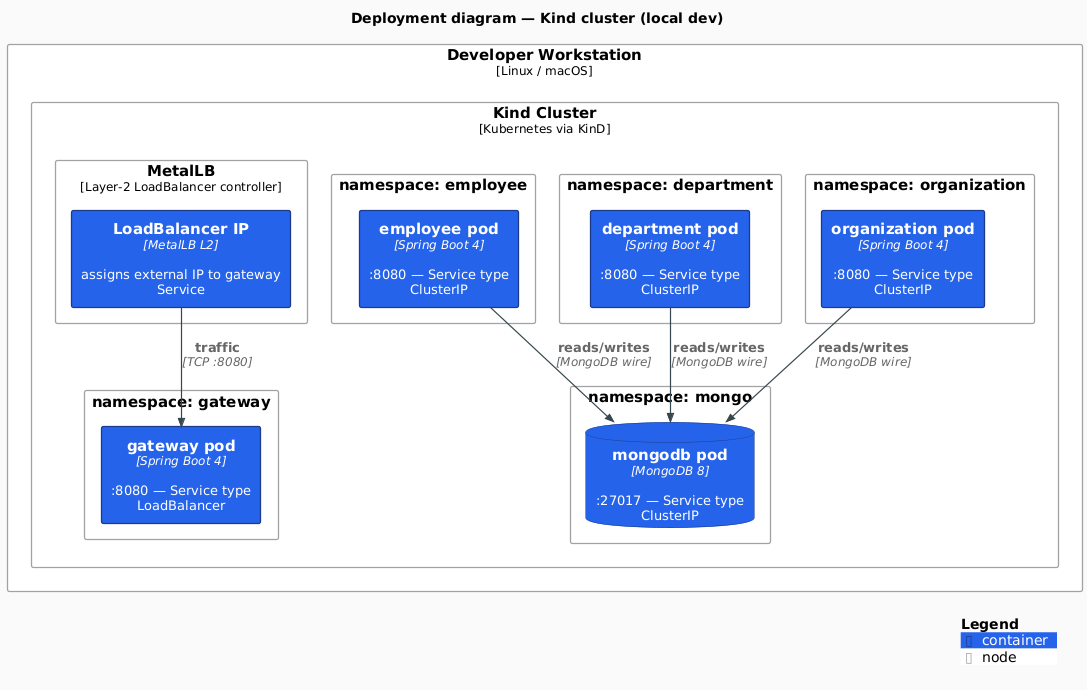
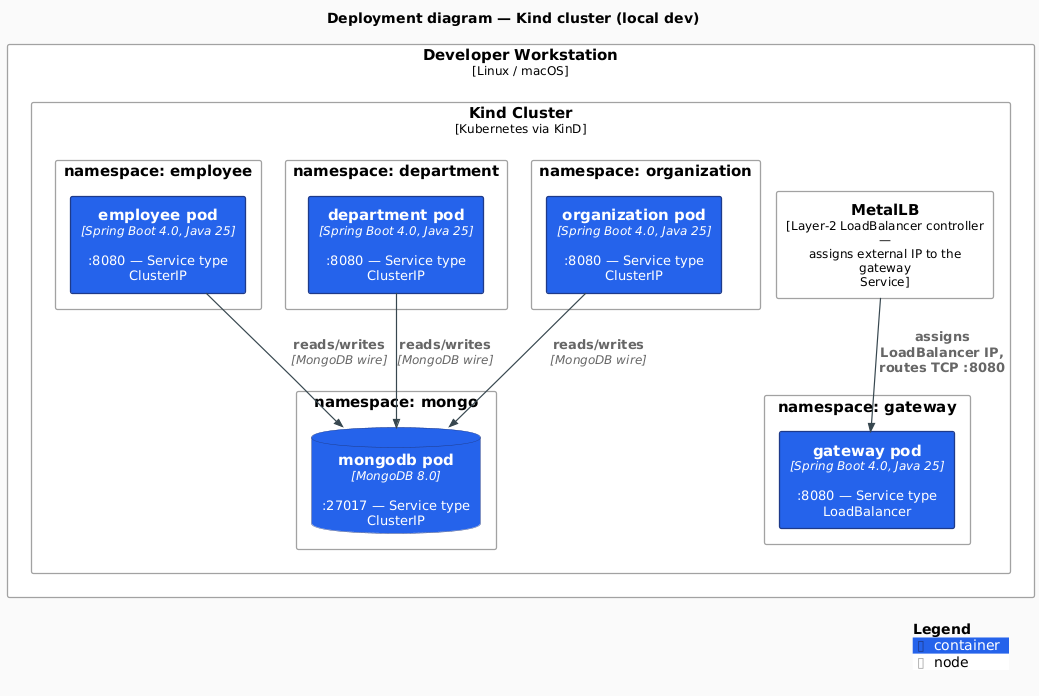
docs: project-review follow-ups (Makefile, diagrams, README, CLAUDE.md)
Makefile:
- Add `@` prefix to `diagrams-clean` recipe (suppress command echo)
- Reorder `static-check` to run `diagrams-check` early for fast-fail
  (before the multi-minute Trivy scans)

Diagrams:
- Drop c4-dns.puml — using C4 `Container()` for DNS records stretched
  the semantics. Replaced in docs/reference-architecture.md with a
  plain Service/FQDN/Port/Type markdown table.
- Container + Deployment diagrams: promote tech strings from
  "Spring Boot 4" / "MongoDB 8" to "Spring Boot 4.0, Java 25" /
  "MongoDB 8.0" (matches pom.xml and k8s manifest source of truth)
- Deployment: MetalLB LoadBalancer IP now modeled as `Deployment_Node`
  (semantically correct — it's network infrastructure, not a runnable
  container)
- Deployment: add `SHOW_LEGEND()` (previously missing)
- Regenerate PNGs

README structure (per /readme skill canonical order):
- Move hero diagram ABOVE Tech Stack table (Description → Hero →
  Tech Stack, not the reverse)
- Reorder sections: Prerequisites → Architecture → Deployment → API →
  Make Targets → CI/CD (was Prerequisites → Make Targets → Architecture
  → CI/CD — violated canonical "Make Targets before Architecture"
  misordering rule)
- Tech Stack table gains a Rationale column explaining each
  technology choice
- New `## Deployment` section — thin summary linking to
  reference-architecture.md for manifest details
- New `## API` section — 3 curl examples + Swagger UI pointer

CLAUDE.md:
[…]

diff --git a/README.md b/README.md
@@ -9,25 +9,25 @@ Production-grade Spring Boot + Spring Cloud Kubernetes microservices — not a t
 
 Four services (gateway, organization, department, employee) deploy to isolated namespaces on a local Kind cluster with one command. The stack is fully wired: cross-namespace service discovery, inter-service REST calls via `@HttpExchange`, MongoDB persistence, distributed tracing, and an API gateway with Swagger UI. CI runs 7 pipeline stages including Trivy CVE scans, Testcontainers integration tests, Kind-based e2e tests, and multi-arch Docker builds with SLSA provenance + cosign signing. Everything is `make`-driven — `make kind-up` to run it, `make ci` to validate it, `make kind-down` to tear it down.
 
-| Component | Technology |
-|-----------|-----------|
-| Language | Java 25 |
-| Framework | Spring Boot 4.0, Spring Cloud 2025.1 |
-| API Gateway | Spring Cloud Gateway Server WebMVC |
-| Inter-service | RestClient with `@HttpExchange` |
-| Service Discovery | Spring Cloud Kubernetes |
-| Database | MongoDB 8.0 (official `mongo` image, non-root UID 999, version-pinned) |
-| API Docs | SpringDoc OpenAPI 3.0 / Swagger UI |
-| Tracing | Micrometer Tracing (OpenTelemetry bridge) |
-| Testing | Testcontainers (integration), Kind e2e |
-| Containers | Eclipse Temurin 25, multi-arch (amd64+arm64) |
-| Local K8s | Kind + MetalLB |
-| CI/CD | GitHub Actions, Renovate, GHCR |
-| Code Quality | google-java-format, Checkstyle, hadolint, gitleaks, actionlint, Trivy, PlantUML |
-
 <p align="center"><img src="docs/diagrams/out/c4-container.png" alt="C4 Container diagram — Spring Microservices on Kubernetes" width="720"></p>
 
 Source: [`docs/diagrams/c4-container.puml`](docs/diagrams/c4-container.puml) — PlantUML + [C4-PlantUML](https://github.com/plantuml-stdlib/C4-PlantUML) with a modern flat skinparam block (no shadows, sharp corners, Inter font, teal/indigo/violet palette). Regenerate with `make diagrams`.
+
+| Component | Technology | Rationale |
+|-----------|-----------|-----------|
+| Language | Java 25 | Current LTS-grade release; virtual threads + pattern matching + records make Spring Boot 4 code terser and more concurrent |
+| Framework | Spring Boot 4.0, Spring Cloud 2025.1 | Mainstream Java microservices stack; Spring Boot 4 drops Spring Boot 2.x compat, adopts Jakarta EE 10, cleaner auto-configuration |
+| API Gateway | Spring Cloud Gateway Server WebMVC | Servlet-stack gateway (not reactive WebFlux) — simpler mental model, easier to instrument, matches the blocking RestClient used elsewhere |
+| Inter-service | RestClient with `@HttpExchange` | Native Spring declarative HTTP client; replaces Feign without pulling Netflix OSS; works with Spring Cloud LoadBalancer for service-discovery-aware calls |
+| Service Discovery | Spring Cloud Kubernetes | Uses the Kubernetes API as the registry — no Eureka/Consul to operate; `all-namespaces: true` enables cross-namespace discovery |
+| Database | MongoDB 8.0 (official `mongo` image, non-root UID 999, version-pinned) | Document model fits the Organization → Department → Employee aggregates without a migration toolchain; official image pinned for Renovate tracking |
+| API Docs | SpringDoc OpenAPI 3.0 / Swagger UI | Auto-generates OpenAPI 3 from `@RestController` annotations; gateway surfaces a unified Swagger UI across all services |
+| Tracing | Micrometer Tracing (OpenTelemetry bridge) | Tracer-agnostic abstraction; bridges to OTel collector without locking onto Zipkin or Brave directly |
+| Testing | Testcontainers (integration), Kind e2e | Real MongoDB per test class (no mocking) + real cluster for e2e — catches schema drift and manifest bugs that in-process tests miss |
+| Containers | Eclipse Temurin 25, multi-arch (amd64+arm64) | Temurin is the reference OpenJDK build; multi-arch covers Apple Silicon dev + x86 servers from a single manifest |
+| Local K8s | Kind + MetalLB | Kind runs a real Kubernetes API in Docker — higher fidelity than Minikube; MetalLB gives LoadBalancer Services a reachable IP on localhost |
+| CI/CD | GitHub Actions, Renovate, GHCR | GitHub-native, zero extra infrastructure; Renovate auto-merges minor/patch dependency updates; GHCR avoids Docker Hub pull-rate limits |
+| Code Quality | google-java-format, Checkstyle, hadolint, gitleaks, actionlint, Trivy, PlantUML | Composite `make static-check` gate — format + lint + Dockerfile lint + secret scan + workflow lint + filesystem/K8s config CVE scan + diagram drift — fails the build on any single violation |
 
 ## Quick Start
 
@@ -63,6 +63,69 @@ Verify required tools are installed:
 ```bash
 make deps
 ```
+
+## Architecture
+
+This architecture follows Cloud Native best practices and [The 12 Factor App](https://12factor.net/) methodology. Key concerns addressed:
+
+- **Externalized configuration** using ConfigMaps, Secrets, and PropertySource
+- **Kubernetes API access** using ServiceAccounts, Roles, and RoleBindings
+- **Health checks** using readiness, liveness, and startup probes
+- **Application state** reported via Spring Boot Actuators
+- **Service discovery** across namespaces using Spring Cloud Kubernetes DiscoveryClient
+- **Inter-service communication** via RestClient (`@HttpExchange`)
+- **API documentation** exposed via Swagger UI
+- **Docker images** built with layered JARs using the Spring Boot plugin
+- **Observability** via Prometheus exporters
+- **Static analysis** via google-java-format, Checkstyle, hadolint, gitleaks, actionlint, Trivy (filesystem + K8s config), and PlantUML diagram drift check — all wired into the `make static-check` composite gate
+
+### Service Communication
+
+```text
+Client -> Gateway (Spring Cloud Gateway Server WebMVC, LoadBalancer via MetalLB)
+  |-- /employee/**     -> Employee Service (MongoDB)
+  |-- /department/**   -> Department Service (MongoDB, calls Employee via RestClient)
+  +-- /organization/** -> Organization Service (MongoDB, calls Department + Employee via RestClient)
+```
+
+Each service runs in its own Kubernetes namespace with dedicated service accounts and RBAC role bindings for cross-namespace discovery.
+
+See the full [Reference Architecture](docs/reference-architecture.md) for the Deployment diagram, Kubernetes DNS table, and per-manifest configuration details.
+
+## Deployment
+
+Local Kubernetes deployment is driven by the Makefile — `make kind-up` spins up the full stack in one command:
+
+```bash
+make kind-up       # Kind cluster + MetalLB + MongoDB + 4 services (~2–3 min)
+make gateway-url   # print LoadBalancer IP assigned by MetalLB
+make gateway-open  # open Swagger UI in a browser
+make kind-down     # tear everything down
+```
+
+Under the hood `kind-up` chains `kind-create` (cluster + MetalLB) → `kind-setup` (namespaces, RBAC, MongoDB) → `image-build` → `image-load` → `kind-deploy` (rollout all 4 services). See [Kind Cluster targets](#kind-cluster) for running each step in isolation during iterative development.
+
+Production deployment is out of scope for this reference — the manifests under [`k8s/`](k8s/) are tuned for a single-node local Kind cluster. See [`docs/reference-architecture.md`](docs/reference-architecture.md) for the annotated manifests and the rationale behind each ConfigMap / Secret / RBAC binding.
+
+## API
+
+The gateway exposes a unified surface on `http://<GATEWAY_IP>:8080` (MetalLB-assigned). Fetch the IP with `make gateway-url`, then:
+
+```bash
+GATEWAY=$(make --silent gateway-url)
+
+# Seed some data
+make populate
+
+# Employees CRUD
+curl -s "http://$GATEWAY:8080/employee/"
+curl -s "http://$GATEWAY:8080/employee/department/1"
+
+# Cross-service fan-out — organization 1, fully expanded with departments + employees
+curl -s "http://$GATEWAY:8080/organization/1/with-departments-and-employees" | jq
+```
+
+A complete OpenAPI 3 spec plus Swagger UI is served through the gateway — run `make gateway-open` to launch it, or point a browser at `http://<GATEWAY_IP>:8080/swagger-ui/index.html`. See [`e2e/e2e-test.sh`](e2e/e2e-test.sh) for exhaustive end-to-end assertions across every route.
 
 ## Available Make Targets
 
@@ -172,34 +235,6 @@ Run `make help` to see all available targets.
 |--------|-------------|
 | `make renovate-bootstrap` | Install nvm and npm for Renovate |
 | `make renovate-validate` | Validate Renovate configuration |
-
-## Architecture
-
-> See the full [Reference Architecture](docs/reference-architecture.md) for detailed diagrams and configuration.
-
-This architecture follows Cloud Native best practices and [The 12 Factor App](https://12factor.net/) methodology. Key concerns addressed:
-
-- **Externalized configuration** using ConfigMaps, Secrets, and PropertySource
-- **Kubernetes API access** using ServiceAccounts, Roles, and RoleBindings
-- **Health checks** using readiness, liveness, and startup probes
-- **Application state** reported via Spring Boot Actuators
-- **Service discovery** across namespaces using Spring Cloud Kubernetes DiscoveryClient
-- **Inter-service communication** via RestClient (`@HttpExchange`)
-- **API documentation** exposed via Swagger UI
-- **Docker images** built with layered JARs using the Spring Boot plugin
-- **Observability** via Prometheus exporters
-- **Static analysis** via google-java-format, Checkstyle, hadolint, gitleaks, actionlint, Trivy (filesystem + K8s config), and PlantUML diagram drift check — all wired into the `make static-check` composite gate
-
-### Service Communication
-
-```text
-Client -> Gateway (Spring Cloud Gateway Server WebMVC, LoadBalancer via MetalLB)
-  |-- /employee/**     -> Employee Service (MongoDB)
-  |-- /department/**   -> Department Service (MongoDB, calls Employee via RestClient)
-  +-- /organization/** -> Organization Service (MongoDB, calls Department + Employee via RestClient)
-```
-
-Each service runs in its own Kubernetes namespace with dedicated service accounts and RBAC role bindings for cross-namespace discovery.
 
 ## CI/CD
 

diff --git a/CLAUDE.md b/CLAUDE.md
@@ -36,8 +36,8 @@ make gateway-open  # Open Swagger UI
 
 ```bash
 make test              # Unit + in-process controller tests (Surefire, seconds)
+make integration-test  # Testcontainers + Failsafe **/*IT.java (tens of seconds)
 make e2e               # Full Kind-cluster e2e via gateway LoadBalancer (minutes)
-# make integration-test — not yet wired (Failsafe profile pending; see Upgrade Backlog)
 ```
 
 Granular alternatives (for debugging / partial workflows):
@@ -57,7 +57,7 @@ make kind-undeploy # Remove services but keep the cluster running
 
 ## CI/CD
 
-- **ci.yml** -- `static-check` (composite quality gate), `build`, `test` (coverage), `cve-check` (OWASP, push-to-master + tag only), `image-scan` (per-service Trivy + Spring Boot smoke test on every push), `e2e` (Kind-based full stack on every push), `docker` (tag-gated, 4-service matrix with multi-arch + SLSA provenance + SBOM + cosign keyless signing), `ci-pass` (branch-protection aggregator)
+- **ci.yml** -- `static-check` (composite quality gate incl. PlantUML `diagrams-check`), `build`, `test` (coverage), `integration-test` (Failsafe `**/*IT.java`), `cve-check` (OWASP, push-to-master + tag only), `image-scan` (per-service Trivy + Spring Boot smoke test on every push), `e2e` (Kind-based full stack on every push), `docker` (tag-gated, 4-service matrix with multi-arch + SLSA provenance + SBOM + cosign keyless signing), `ci-pass` (branch-protection aggregator)
 - **cleanup-runs.yml** -- weekly cleanup of old workflow runs
 
 ## Tech Stack
@@ -78,7 +78,6 @@ make kind-undeploy # Remove services but keep the cluster running
 |---|------|--------|-------|
 | 1 | Drop `tools.jackson.core:jackson-core` override | Blocked on Spring Boot 4.0.6 | Module poms pin `tools.jackson.core:jackson-core:3.1.1` in `<dependencyManagement>` to fix **GHSA-2m67-wjpj-xhg9** (HIGH — Document length constraint bypass). Spring Boot 4.0.5 manages `jackson-core:3.1.0` which is vulnerable. Remove the override once SB 4.0.6 (or later) ships with 3.1.1 managed; Renovate should flag it via the Spring Boot group rule. Verify by running `mvn dependency:tree -Dincludes=tools.jackson.core:jackson-core` and confirming the natural version is ≥ 3.1.1. |
 | 2 | `actions/cache` Node 20 deprecation (transitive via `sigstore/cosign-installer`) | Blocked on upstream | Node 20 hard-removed from GitHub Actions runners **2026-09-16**. The cache action is a transitive dep inside `sigstore/cosign-installer@v4.1.1` — we're already on latest. Renovate will ship the next cosign-installer release automatically. No manual action; track so it doesn't surprise us in Sept. |
-| 3 | Add `integration-test` Maven profile + Makefile target + CI job | Pending | Multi-module Failsafe profile discovers `**/*IT.java`. Adds the middle layer between `make test` (unit) and `make e2e` (cluster). Currently `*ControllerTest.java` files are Testcontainers-backed integration tests running under Surefire — rename to `*IT.java` and route discovery to Failsafe. |
 
 ## Skills
 

diff --git a/docs/reference-architecture.md b/docs/reference-architecture.md
@@ -316,9 +316,13 @@ Every Service in the cluster is assigned a DNS name following the pattern
 `<service>.<namespace>.svc.cluster.local`. For example, the MongoDB service
 is reachable at `mongodb.mongo.svc.cluster.local:27017`.
 
-<p align="center"><img src="diagrams/out/c4-dns.png" alt="Kubernetes DNS — Service FQDN layout" width="720"></p>
-
-Source: [`diagrams/c4-dns.puml`](diagrams/c4-dns.puml) — PlantUML + C4-PlantUML, modern flat theme.
+| Service | FQDN | Port | Type |
+|---------|------|-----:|------|
+| gateway | `gateway.gateway.svc.cluster.local` | 8080 | LoadBalancer |
+| employee | `employee.employee.svc.cluster.local` | 8080 | ClusterIP |
+| department | `department.department.svc.cluster.local` | 8080 | ClusterIP |
+| organization | `organization.organization.svc.cluster.local` | 8080 | ClusterIP |
+| mongodb | `mongodb.mongo.svc.cluster.local` | 27017 | ClusterIP |
 
 The pattern is `<service>.<namespace>.svc.cluster.local:<port>`.
 
